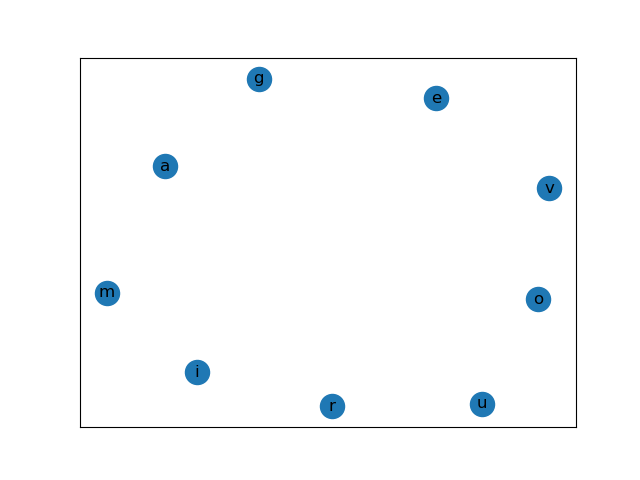
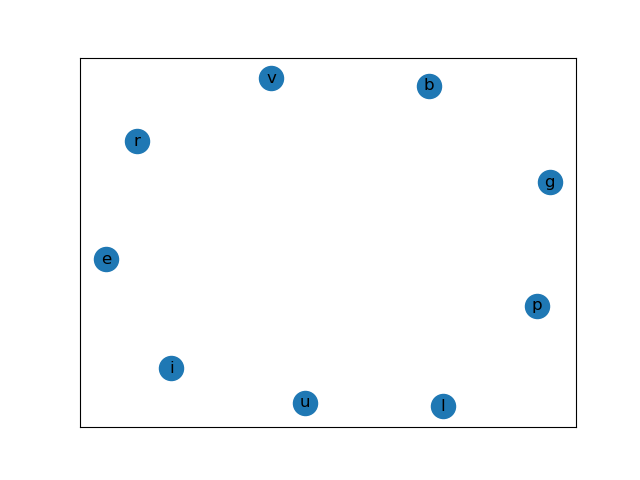
update plot do cmi corrigido

diff --git a/mis.py b/mis.py
@@ -127,9 +127,21 @@ graph = {"a": ["b", "c"],
 
 print(maxIndSet(graph))
 
-# Trecho de código referente a aquisição das imagens do grafo e do seu respectivo conjunto indepente máximo
-         
+# Trecho de código referente a aquisição da imagem do conjunto máximo independente 
 
+import networkx as nx
+import matplotlib.pyplot as plt
 
-# Trecho de código referente a aquisição das imagens do grafo e do seu respectivo conjunto indepente máximo
+conjuntoMaximoIndependente = maxIndSet(graph)
 
+conjuntoMaximoIndependente_plot = nx.Graph()
+
+for i in conjuntoMaximoIndependente.keys():
+    conjuntoMaximoIndependente_plot.add_node(i)
+
+for i in conjuntoMaximoIndependente.keys():
+    for j in conjuntoMaximoIndependente[i]:
+        conjuntoMaximoIndependente_plot.add_edge(i, j)
+
+nx.draw_networkx(conjuntoMaximoIndependente_plot)
+plt.savefig("conjuntoMaximoIndependente_plot.png")
